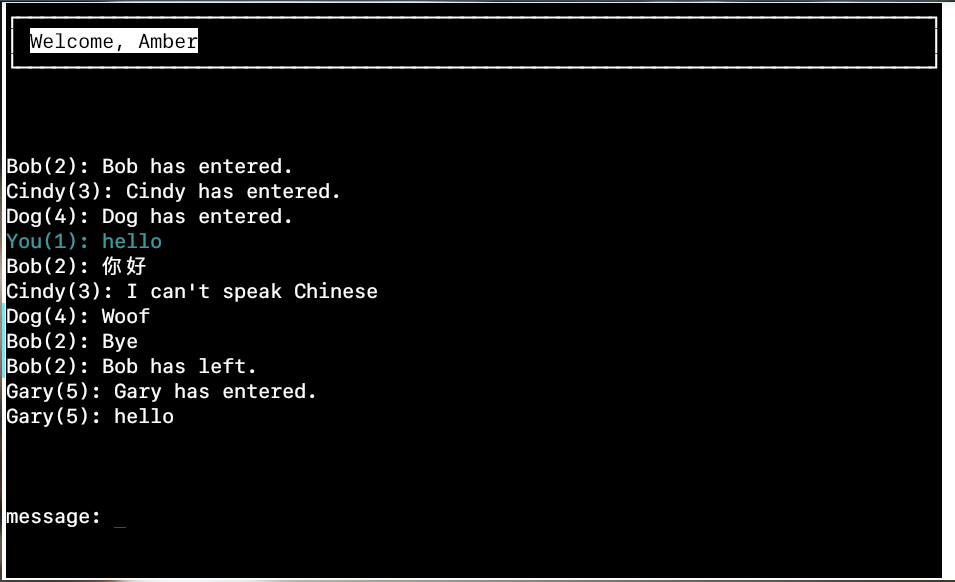
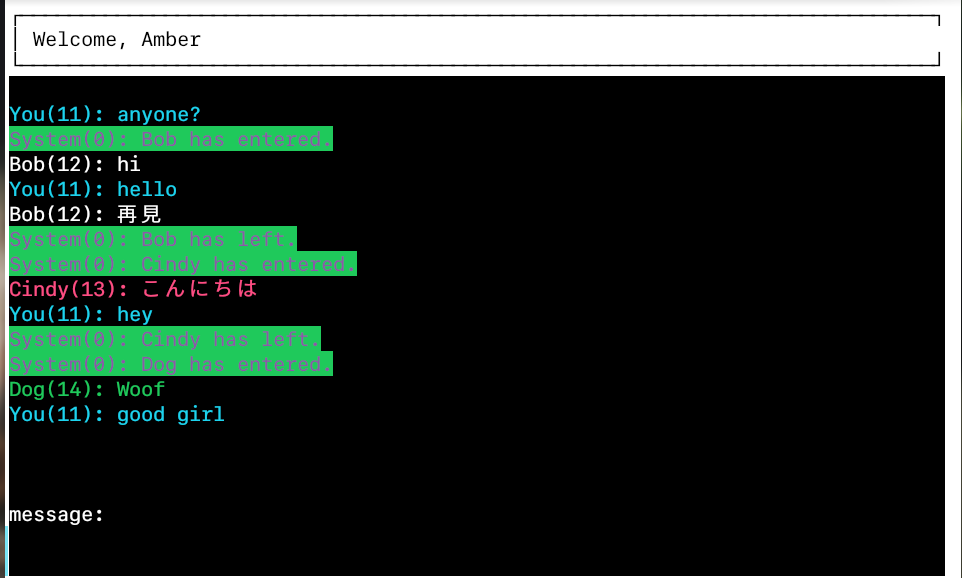
colorful message

Changed region(s): [[0.0, 0.0, 1.0, 1.0]]

diff --git a/ncurses_client.cpp b/ncurses_client.cpp
@@ -30,9 +30,14 @@ void ncurses_init()
     }
     start_color();
 
-    init_pair(1, COLOR_BLACK, COLOR_WHITE);
-    init_pair(2, COLOR_BLUE, COLOR_BLACK);
-    init_pair(3, COLOR_MAGENTA, COLOR_BLACK);
+    init_pair(1, COLOR_BLACK, COLOR_WHITE);//name windows color
+    init_pair(2, COLOR_MAGENTA, COLOR_YELLOW);//system message color
+    init_pair(3, COLOR_BLUE, COLOR_BLACK);//self color
+    init_pair(4, COLOR_GREEN, COLOR_BLACK);
+    init_pair(5, COLOR_WHITE, COLOR_BLACK);
+    init_pair(6, COLOR_RED, COLOR_BLACK);
+    init_pair(7, COLOR_YELLOW, COLOR_BLACK);
+    init_pair(8, COLOR_CYAN, COLOR_BLACK);
 
     ncurses_data.name_display_height = 3;
     ncurses_data.name_display_width = max_x;
@@ -57,23 +62,27 @@ void ncurses_init()
 // 在 消息接收窗口中顯示message信息。
 // message放在窗口的最後一行，窗口向上滾動
 // 消息接收窗口 的最後一行不顯示字符，和 下面的 消息輸入窗口 分開
-void ncurses_message_display(char *message, bool isSelf, bool isSystem)
+void ncurses_message_display(char *message, short colors, bool isSystem)
 {
     sem_wait(&(ncurses_data.message_display_mutex));
     int scroll_lines = ceil(strlen(message) * 1.0 / ncurses_data.message_display_width);
     wscrl(ncurses_data.message_display_win, scroll_lines);
-    if (isSelf)
-        wattron(ncurses_data.message_display_win ,COLOR_PAIR(2));
+
     if (isSystem)
-        wattron(ncurses_data.message_display_win ,COLOR_PAIR(3));
+        wattron(ncurses_data.message_display_win ,COLOR_PAIR(2));
+    else
+        wattron(ncurses_data.message_display_win ,COLOR_PAIR(colors + 3));
+
     mvwprintw(ncurses_data.message_display_win,
               ncurses_data.message_display_height - scroll_lines - 1,
               0,
               message);
-    if (isSelf)
-        wattroff(ncurses_data.message_display_win, COLOR_PAIR(2));
+
     if (isSystem)
-        wattroff(ncurses_data.message_display_win, COLOR_PAIR(3));
+        wattroff(ncurses_data.message_display_win, COLOR_PAIR(2));
+    else
+        wattroff(ncurses_data.message_display_win, COLOR_PAIR(colors + 3));
+
     wrefresh(ncurses_data.message_display_win);
     sem_post(&(ncurses_data.message_display_mutex));
 }

diff --git a/ncurses_client_main.cpp b/ncurses_client_main.cpp
@@ -123,7 +123,7 @@ void recv_msg(){
             recv(client_socket, &id, sizeof(int), 0);
             recv(client_socket, msg, sizeof(msg),0);
             sprintf(display_buff, "%s(%d): %s", name, id, msg);
-            ncurses_message_display(display_buff, strcmp(name, "You") == 0, id == 0);
+            ncurses_message_display(display_buff, (strcmp(name, "You") != 0) * (id % 5 + 1), id == 0);
             wrefresh(ncurses_data.input_board_win);
         }
     }

diff --git a/ncurses_client.h b/ncurses_client.h
@@ -22,7 +22,7 @@ typedef struct {
     sem_t message_display_mutex;
 } NcursesType;
 void ncurses_init();
-void ncurses_message_display(char* message, bool isSelf, bool isSystem);
+void ncurses_message_display(char* message, short color, bool isSystem);
 void ncurses_clear_line(WINDOW* win, int y, int x);
 
 

diff --git a/README.md b/README.md
@@ -24,9 +24,13 @@ sudo pacman -S base-devel cmake ncurses
 git clone https://github.com/nasirHo/Linux_Socket_Practice_Chatroom
 ```
 2. cd to this directory
-3. generate cmake configuration
+3. create a build directory and enter it
+```shell
+mkdir -p build && cd build
+```
+4. generate cmake configuration
 ```sh
-cmake .
+cmake ..
 ```
 3. build
 ```sh
